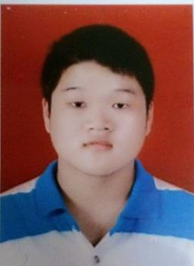
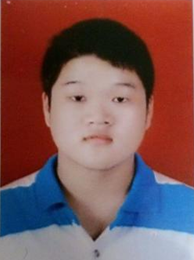
update top image

diff --git a/index.html b/index.html
@@ -12,7 +12,9 @@
     <div class="container" id="cv">
         <div class="side">
             <div class="me">
-                <div class="portrait"></div>
+                <div class="portrait">
+                    <img src="./static/image/top.png" width="160px" >
+                </div>
                 <h1 id="username" >许伟强</h1>
                 <h4 id="persona-tag" >PHP / Web / 程序员</h4>
             </div>

diff --git a/static/css/style.css b/static/css/style.css
@@ -191,13 +191,12 @@ progress::-moz-progress-value {
     margin: 0 auto;
     margin-top:20px;
     margin-bottom: 10px;
-    background-image:url('../image/top.png');
     background-size: 100%;
     background-position:center;
-    border-radius:50%;
-    border:5px solid #607d8b;
-    width:160px;
-    height:160px;
+    /*border:5px solid #607d8b;*/
+    width:168px;
+    height:190px;
+    overflow: hidden;
 }
 
 
